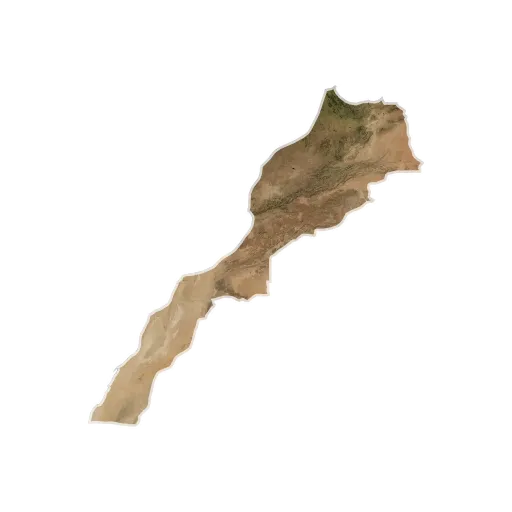
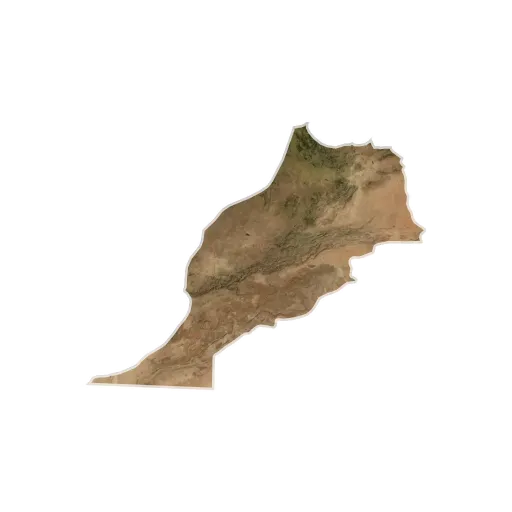
Move the Morocco–Western Sahara border to 27°40'N
Natural Earth draws Morocco down to the berm, leaving Western Sahara as
only the strip east of it. Most maps use 27°40'N instead, so
loadCountryShapes joins the two outlines and cuts them along Natural
Earth's own Algeria–Morocco–Western Sahara corner, keeping Algeria's
border points unchanged. Regenerates Morocco's picture, the nearest
countries, and the country groups map.

Changed region(s): [[0.1562, 0.1562, 0.8438, 0.8438]]

diff --git a/src/shared/countries.ts b/src/shared/countries.ts
@@ -1,8 +1,8 @@
 // Also used by scripts/make-country-images.mjs, which Node runs directly, so
 // this file must only use TypeScript that Node can strip (no enums etc.).
-import { feature } from 'topojson-client'
+import { feature, merge } from 'topojson-client'
 import type { GeometryCollection, Topology } from 'topojson-specification'
-import type { Geometry, MultiPolygon, Polygon } from 'geojson'
+import type { Geometry, MultiPolygon, Polygon, Position } from 'geojson'
 import isoCountries from 'i18n-iso-countries'
 import worldAtlas50m from 'world-atlas/countries-50m.json' with { type: 'json' }
 import tuvaluOutline from '../data/tuvaluOutline.json' with { type: 'json' }
@@ -114,9 +114,84 @@ type WorldAtlasTopology = Topology<{
   countries: GeometryCollection<{ name: string }>
 }>
 
+// Cuts a closed ring in two along a line of latitude: the part north of it
+// and the part south of it, each closed along the line. A point exactly on
+// the line goes into both; where an edge crosses the line, the crossing point
+// is added to both. The ring must meet the line exactly twice, so that each
+// part is one piece; this throws otherwise.
+export function splitRingAtLatitude(
+  ring: Position[],
+  latitude: number,
+): { north: Position[]; south: Position[] } {
+  const north: Position[] = []
+  const south: Position[] = []
+  let timesMet = 0
+  // A closed ring repeats its first point at the end; leave that out here.
+  const points = ring.slice(0, -1)
+  for (let i = 0; i < points.length; i++) {
+    const point = points[i]
+    const next = points[(i + 1) % points.length]
+    if (point[1] > latitude) north.push(point)
+    else if (point[1] < latitude) south.push(point)
+    else {
+      north.push(point)
+      south.push(point)
+      timesMet++
+    }
+    // The edge to the next point crosses the line between its two ends.
+    if ((point[1] - latitude) * (next[1] - latitude) < 0) {
+      const fraction = (latitude - point[1]) / (next[1] - point[1])
+      const crossing = [point[0] + fraction * (next[0] - point[0]), latitude]
+      north.push(crossing)
+      south.push(crossing)
+      timesMet++
+    }
+  }
+  if (timesMet !== 2) throw new Error(`Ring meets latitude ${latitude} ${timesMet} times, not 2`)
+  return { north: [...north, north[0]], south: [...south, south[0]] }
+}
+
+// Natural Earth draws Morocco down to the Moroccan berm, with Western Sahara
+// only the strip east of it. Most maps draw the border at 27°40'N instead,
+// so Morocco and Western Sahara are joined and cut along that line. The line
+// is at Western Sahara's northernmost point in the data, Natural Earth's own
+// Algeria–Morocco–Western Sahara corner (27°39'25"N), so Algeria's border
+// keeps exactly its points. Returns the two new outlines.
+function moroccoAndWesternSaharaAt27Degrees40(topology: WorldAtlasTopology): {
+  morocco: Polygon
+  westernSahara: Polygon
+} {
+  const geometries = topology.objects.countries.geometries
+  // Every world-atlas shape has a name.
+  const nameOf = (geometry: (typeof geometries)[number]) =>
+    (geometry.properties as { name: string }).name
+  const morocco = geometries.find((geometry) => nameOf(geometry) === 'Morocco')
+  const westernSahara = geometries.find((geometry) => nameOf(geometry) === 'W. Sahara')
+  // Each is a single polygon in the 1:50m data.
+  if (morocco?.type !== 'Polygon' || westernSahara?.type !== 'Polygon') {
+    throw new Error('Morocco or W. Sahara is not one polygon')
+  }
+
+  const westernSaharaGeometry = feature(topology, westernSahara).geometry
+  if (westernSaharaGeometry.type !== 'Polygon') throw new Error('W. Sahara is not one polygon')
+  const borderLatitude = Math.max(...westernSaharaGeometry.coordinates[0].map((point) => point[1]))
+
+  const joined = merge(topology, [morocco, westernSahara])
+  if (joined.coordinates.length !== 1 || joined.coordinates[0].length !== 1) {
+    throw new Error('Morocco and W. Sahara joined are not one polygon with no holes')
+  }
+  const { north, south } = splitRingAtLatitude(joined.coordinates[0][0], borderLatitude)
+  return {
+    morocco: { type: 'Polygon', coordinates: [north] },
+    westernSahara: { type: 'Polygon', coordinates: [south] },
+  }
+}
+
 // Returns the full-detail 1:50m outlines, plus Tuvalu from the 1:10m data
 // (scripts/make-tuvalu-outline.mjs), because the 1:50m data leaves it out,
-// and with the far-off parts (FAR_OFF_PARTS) split from their countries.
+// with the Morocco–Western Sahara border moved to 27°40'N
+// (moroccoAndWesternSaharaAt27Degrees40), and with the far-off parts
+// (FAR_OFF_PARTS) split from their countries.
 // MapLibre simplifies them itself for each zoom level, so they don't need
 // simplifying here.
 export function loadCountryShapes(): CountryShape[] {
@@ -139,6 +214,12 @@ export function loadCountryShapes(): CountryShape[] {
       geometry: country.geometry,
     }
   })
+
+  const { morocco, westernSahara } = moroccoAndWesternSaharaAt27Degrees40(topology)
+  for (const shape of shapes) {
+    if (shape.isoAlpha3 === 'MAR') shape.geometry = morocco
+    if (shape.isoAlpha3 === 'ESH') shape.geometry = westernSahara
+  }
 
   shapes.push({
     name: 'Tuvalu',

diff --git a/src/shared/countries.test.ts b/src/shared/countries.test.ts
@@ -1,7 +1,7 @@
 import { describe, expect, it } from 'vitest'
-import type { MultiPolygon, Position } from 'geojson'
+import type { MultiPolygon, Polygon, Position } from 'geojson'
 import farOffParts from '../data/farOffParts.json'
-import { countryCodeOfShape, loadCountryShapes } from './countries'
+import { countryCodeOfShape, loadCountryShapes, splitRingAtLatitude } from './countries'
 
 describe('loadCountryShapes', () => {
   const shapes = loadCountryShapes()
@@ -22,6 +22,20 @@ describe('loadCountryShapes', () => {
     expect(france.geometry.type).toBe('MultiPolygon')
     const franceRings = (france.geometry as MultiPolygon).coordinates.map((polygon) => polygon[0])
     expect(franceRings.some((ring) => ring.some(isInTheAmericas))).toBe(false)
+  })
+
+  it("moves the Morocco–Western Sahara border to Natural Earth's 27°40'N corner", () => {
+    const morocco = shapes.find((shape) => shape.isoAlpha3 === 'MAR')
+    const westernSahara = shapes.find((shape) => shape.isoAlpha3 === 'ESH')
+    if (morocco === undefined || westernSahara === undefined) throw new Error('No MAR or ESH')
+    const latitudes = (shape: typeof morocco) =>
+      (shape.geometry as Polygon).coordinates[0].map((point) => point[1])
+    // The corner is at 27°39'25"N.
+    expect(Math.min(...latitudes(morocco))).toBeCloseTo(27.657, 3)
+    expect(Math.max(...latitudes(westernSahara))).toBeCloseTo(27.657, 3)
+    // Western Sahara reaches the Mauritanian border at Lagouira, near 21°N.
+    expect(Math.min(...latitudes(westernSahara))).toBeLessThan(21)
+    expect(westernSahara.name).toBe('Western Sahara')
   })
 
   it('includes Tuvalu, which the 1:50m dataset leaves out', () => {
@@ -68,6 +82,68 @@ describe('loadCountryShapes', () => {
   it('gives every shape its own name, so far-off parts can be told apart', () => {
     const names = shapes.map((shape) => shape.name)
     expect(names.length).toBe(new Set(names).size)
+  })
+})
+
+describe('splitRingAtLatitude', () => {
+  it('cuts a ring in two along the line, adding the crossing points to both', () => {
+    const square = [
+      [0, 0],
+      [2, 0],
+      [2, 2],
+      [0, 2],
+      [0, 0],
+    ]
+    expect(splitRingAtLatitude(square, 1)).toEqual({
+      north: [
+        [2, 1],
+        [2, 2],
+        [0, 2],
+        [0, 1],
+        [2, 1],
+      ],
+      south: [
+        [0, 0],
+        [2, 0],
+        [2, 1],
+        [0, 1],
+        [0, 0],
+      ],
+    })
+  })
+
+  it('puts a point exactly on the line in both parts', () => {
+    const diamond = [
+      [0, 1],
+      [1, 0],
+      [2, 1],
+      [1, 2],
+      [0, 1],
+    ]
+    const { north, south } = splitRingAtLatitude(diamond, 1)
+    expect(north).toEqual([
+      [0, 1],
+      [2, 1],
+      [1, 2],
+      [0, 1],
+    ])
+    expect(south).toEqual([
+      [0, 1],
+      [1, 0],
+      [2, 1],
+      [0, 1],
+    ])
+  })
+
+  it('throws if the ring meets the line other than twice', () => {
+    const square = [
+      [0, 0],
+      [2, 0],
+      [2, 2],
+      [0, 2],
+      [0, 0],
+    ]
+    expect(() => splitRingAtLatitude(square, 3)).toThrow()
   })
 })
 

diff --git a/src/features/settings/Credits.tsx b/src/features/settings/Credits.tsx
@@ -108,6 +108,7 @@ export function Credits({ onBack }: { onBack: () => void }) {
             <ExternalLink href="https://www.naturalearthdata.com/">Natural Earth</ExternalLink>{' '}
             (public domain), by way of{' '}
             <ExternalLink href="https://github.com/topojson/world-atlas">world-atlas</ExternalLink>.
+            The Morocco–Western Sahara border is moved to 27°40'N.
           </p>
           <p className="credits__entry">
             <strong>Satellite imagery:</strong> Blue Marble: Next Generation, June 2004, by Reto

diff --git a/CREDITS.md b/CREDITS.md
@@ -15,7 +15,7 @@ The UN and UNDP sources don't endorse this project either, and its data may not 
 
 ## Maps and imagery
 
-- **Country borders:** [Natural Earth](https://www.naturalearthdata.com/) 4.1.0 (public domain), by way of [world-atlas](https://github.com/topojson/world-atlas) (ISC licence, copyright 2013-2019 Michael Bostock). Made with Natural Earth.
+- **Country borders:** [Natural Earth](https://www.naturalearthdata.com/) 4.1.0 (public domain), by way of [world-atlas](https://github.com/topojson/world-atlas) (ISC licence, copyright 2013-2019 Michael Bostock). Made with Natural Earth. Changes: the Morocco–Western Sahara border is moved to 27°40'N.
 - **Satellite imagery:** Blue Marble: Next Generation, June 2004, by Reto Stöckli, [NASA Earth Observatory](https://science.nasa.gov/earth/earth-observatory/blue-marble-next-generation/). Cut into map tiles for this app. NASA doesn't endorse this project.
 - **Population lights:** Schiavina, Freire, Carioli, and MacManus (2023), [GHS-POP R2023A](https://doi.org/10.2905/2FF68A52-5B5B-4A22-8F40-C41DA8332CFE), European Commission, Joint Research Centre, used under [CC BY 4.0](https://creativecommons.org/licenses/by/4.0/). Changes: the 2025 grid at 30 arcseconds is drawn as randomly placed dots of light and cut into map tiles. The European Commission doesn't endorse this project.
 - **Flags:** [hampusborgos/country-flags](https://github.com/hampusborgos/country-flags), described by that project as public domain and sourced from Wikimedia Commons. National flags can have other legal restrictions on how they're used.

diff --git a/CLAUDE.md b/CLAUDE.md
@@ -80,6 +80,7 @@ Generated files are committed; each script lists its download links.
 
 - Borders: Natural Earth 1:50m from `world-atlas`, ISO numeric IDs converted to alpha-3 with `i18n-iso-countries`. Some areas (Kosovo, Somaliland, N. Cyprus, etc.) have no ISO code; Kosovo is a country, given `XKX` by name (`CODES_OF_UNCODED_COUNTRIES`), a code that must never change.
   - 50m leaves out Tuvalu, so `node scripts/make-tuvalu-outline.mjs` writes it from 1:10m.
+  - Natural Earth draws Morocco down to the berm; `loadCountryShapes` moves the Morocco–Western Sahara border to Natural Earth's 27°40'N corner, so Algeria's border keeps its points (the land borders script relies on shared points).
   - Shapes crossing 180° or surrounding the South Pole are converted for MapLibre in `flatMapGeometry.ts`.
 - Background imagery: NASA Blue Marble Next Generation (public domain), from `scripts/make-background-tiles.sh <source-folder>` (needs GDAL).
 - Population lights: GHS-POP R2023A (CC BY 4.0), from `python3 -I scripts/make-population-lights.py <source-folder>` (needs GDAL, numpy, Pillow). Chosen over NASA night lights because it maps people, not electric light. For looks only. Empty tiles aren't written, so those requests fail by design.
